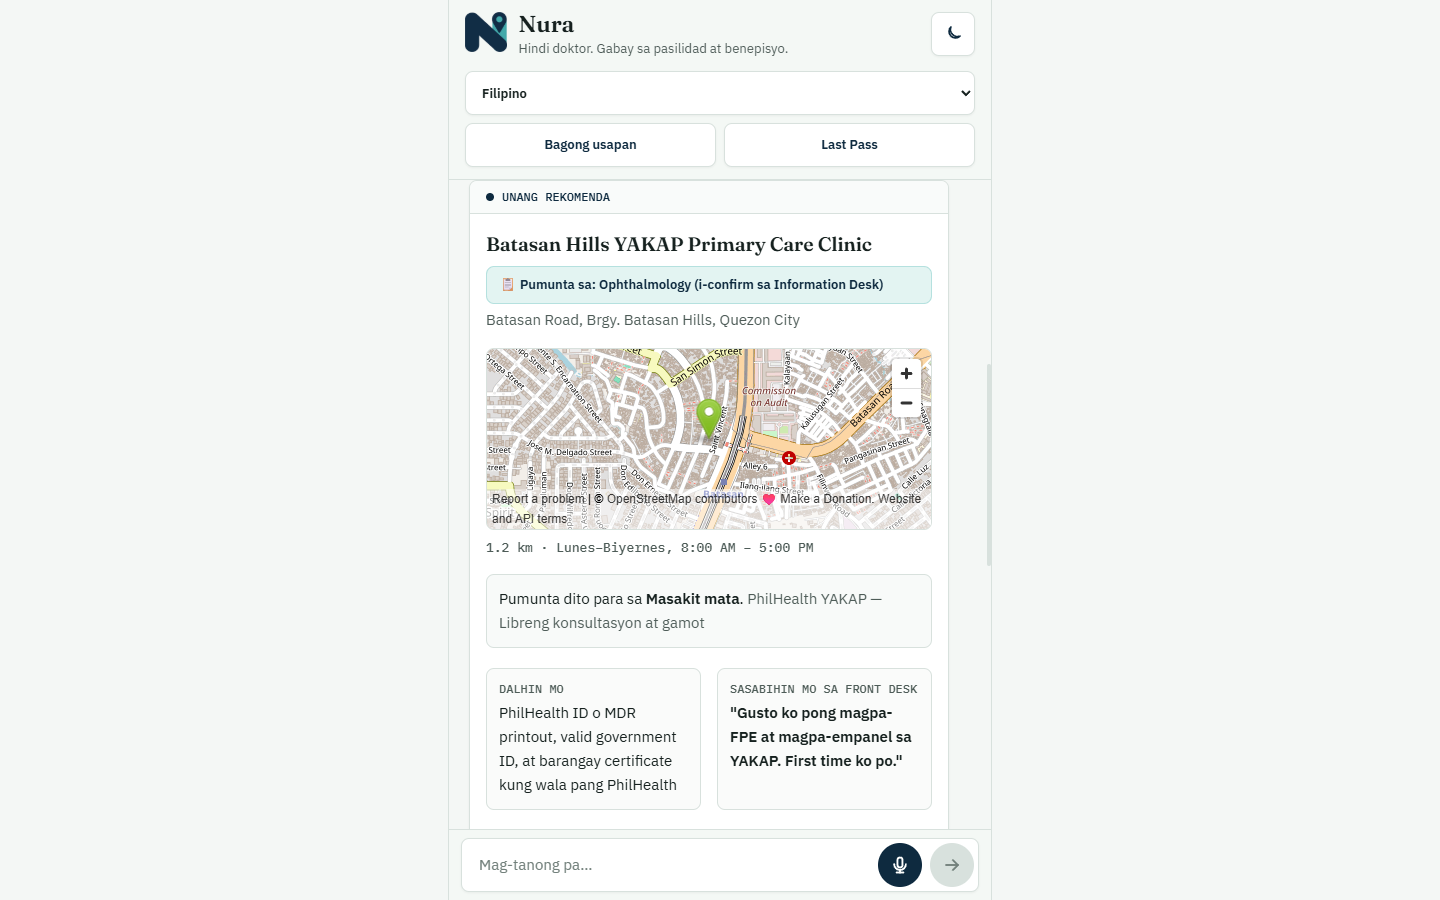
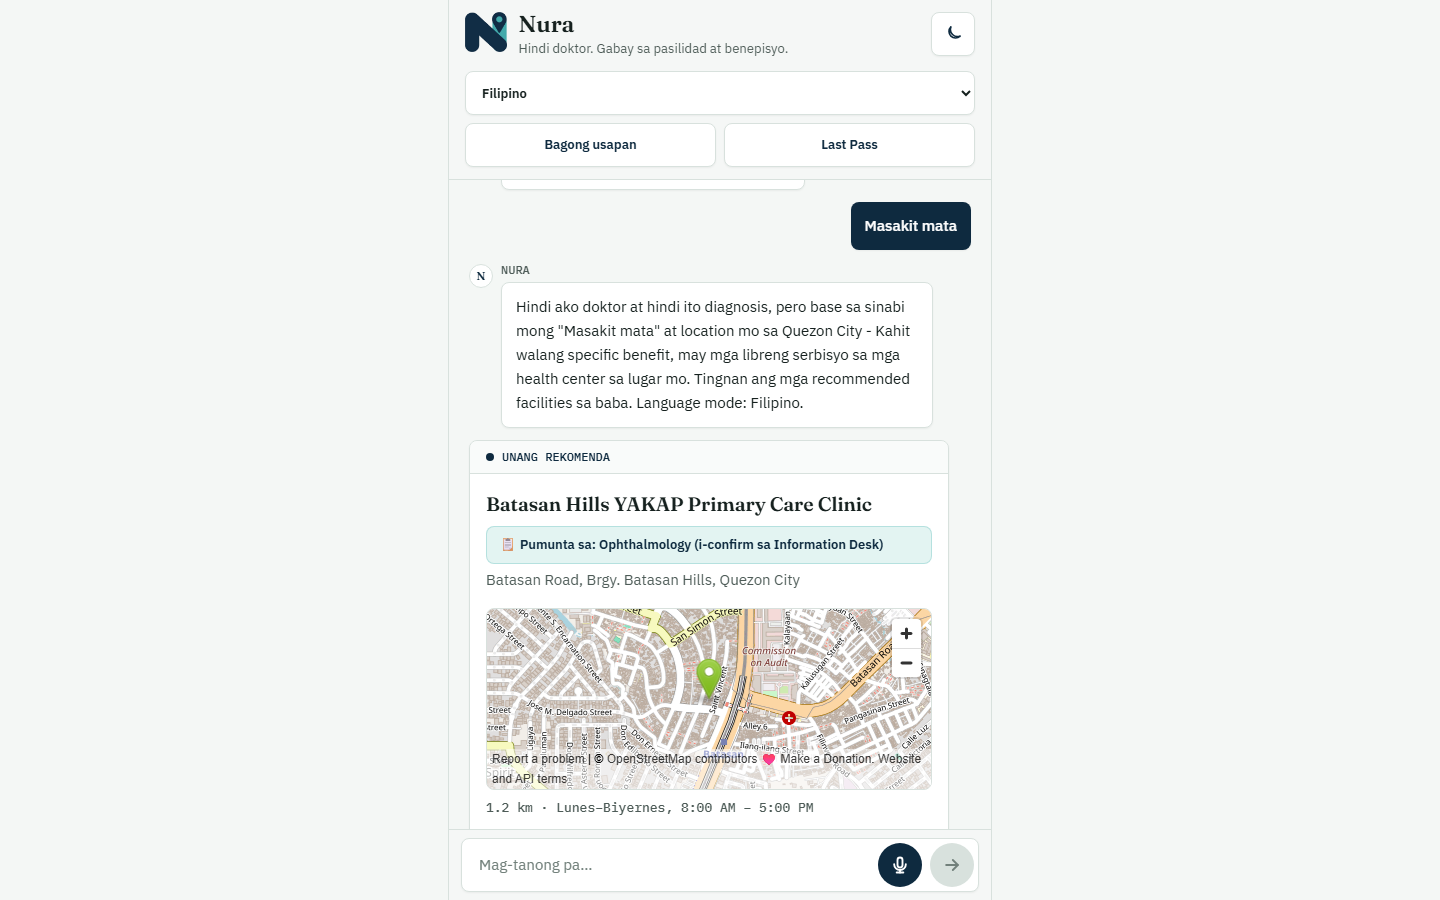
Update portfolio summary

Changed region(s): [[0.3125, 0.1867, 0.6875, 0.9022]]

diff --git a/docs/summary.md b/docs/summary.md
@@ -3,13 +3,13 @@ title: Nura — Filipino Healthcare Access Navigator
 tagline: A multilingual chatbot that tells Filipinos which nearby facility to visit, which benefit to claim, and what to bring.
 area: ml
 stack: [FastAPI, React, Gemini, Supabase pgvector, Vertex AI]
-note: InnOlympics 2026 hackathon, 4-person team
+note: Shipped in 24 hours; works in 5 languages and catches 32 emergency phrases before any AI call
 ---
 
-Most Filipinos know free or subsidized care exists, like PhilHealth YAKAP, Malasakit Centers, and senior and persons with disabilities (PWD) discounts. The rules are scattered, though, and nobody tells you where to actually go or what to bring. Nura answers exactly that, and on purpose it isn't a doctor: it never diagnoses or prescribes.
+Most Filipinos know free or subsidized care exists, like PhilHealth YAKAP, Malasakit Centers, and senior and persons with disabilities (PWD) discounts. The rules are scattered, though, and nobody tells you where to actually go or what to bring. Nura answers that, and it never diagnoses or prescribes.
 
-We built it for InnOlympics 2026 in the Pangarap sa Kalusugan track as a four-person team. I was the project lead: I designed the architecture, wrote the FastAPI backend orchestration, and handled integration and release. My teammates owned the facility data pipeline, the retrieval-augmented generation (RAG) layer, and the React frontend.
+I led our four-person team at InnOlympics 2026 and owned the system design and backend orchestration. I set up the FastAPI backend and wrote the chat orchestrator every message goes through: emergency check first, then a gate that asks for anything missing, then routing to facility search or benefit answers. I also handled integration and release. My teammates built the facility data pipeline, the retrieval-augmented generation (RAG) layer, and the React frontend.
 
-You describe your concern in Filipino, Cebuano, Ilocano, Hiligaynon or English, then pick your city and benefits. Nura returns the top facility with a map, the documents to bring, and the exact line to say at the front desk. Benefit answers come from PhilHealth guides retrieved with pgvector and written up by Gemini.
+You describe your concern in Filipino, Cebuano, Ilocano, Hiligaynon or English, then pick your city and any of six benefit programs. Nura returns the top facility with a map, the documents to bring, and the line to say at the front desk. Benefit answers come from PhilHealth guides retrieved with pgvector and written up by Gemini.
 
-The rule I cared most about is safety. A deterministic keyword check for emergencies like chest pain or trouble breathing runs before any session lookup, model call or search, and sends you straight to 911. It's also an offline-ready progressive web app (PWA), so your last care pass still opens with no signal.
+We shipped it in 24 hours. Safety came first: a deterministic check against 32 emergency phrases in Filipino, Cebuano and English runs before any session lookup, model call or search, and sends you straight to 911. If there's no verified facility for your city, Nura says so instead of making one up. All 15 backend tests pass, and as an offline-ready progressive web app (PWA), your last care pass opens with no signal.
